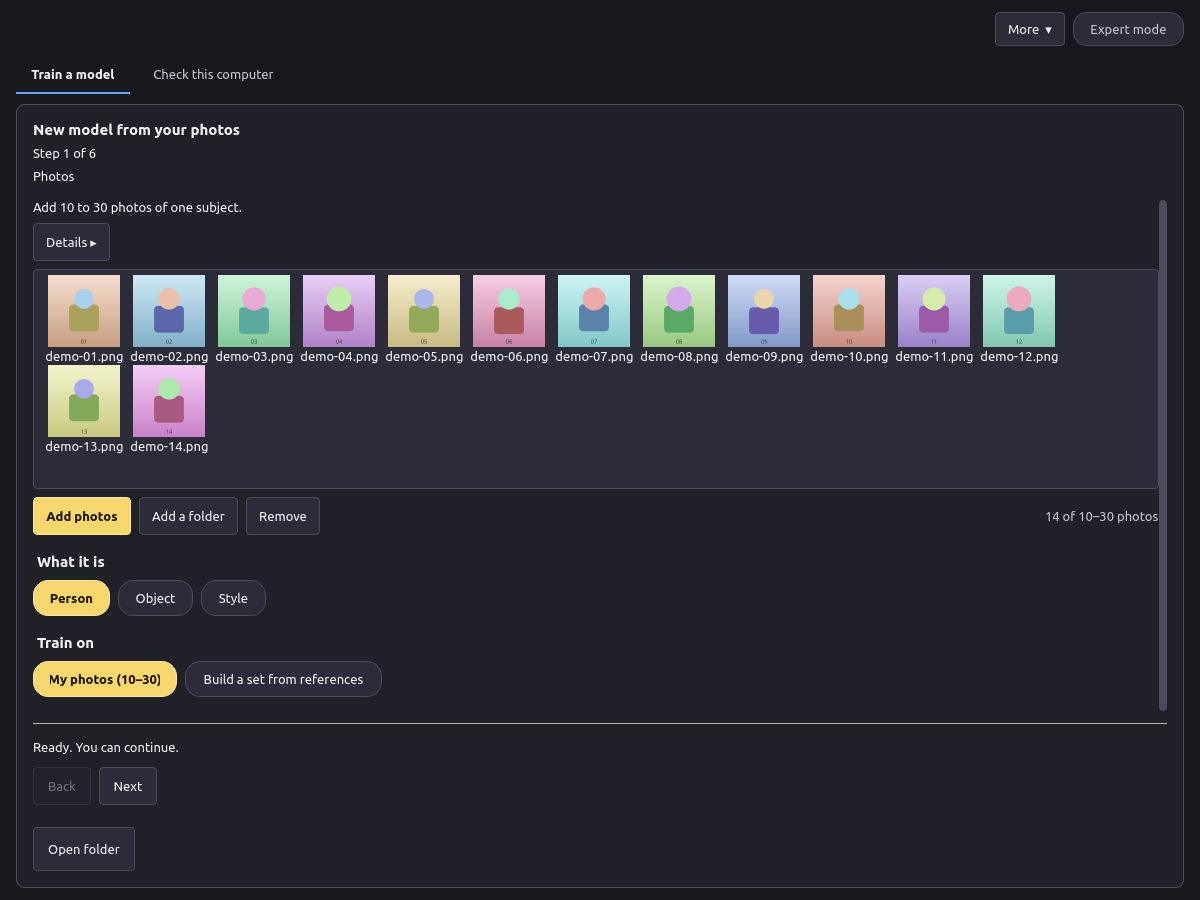
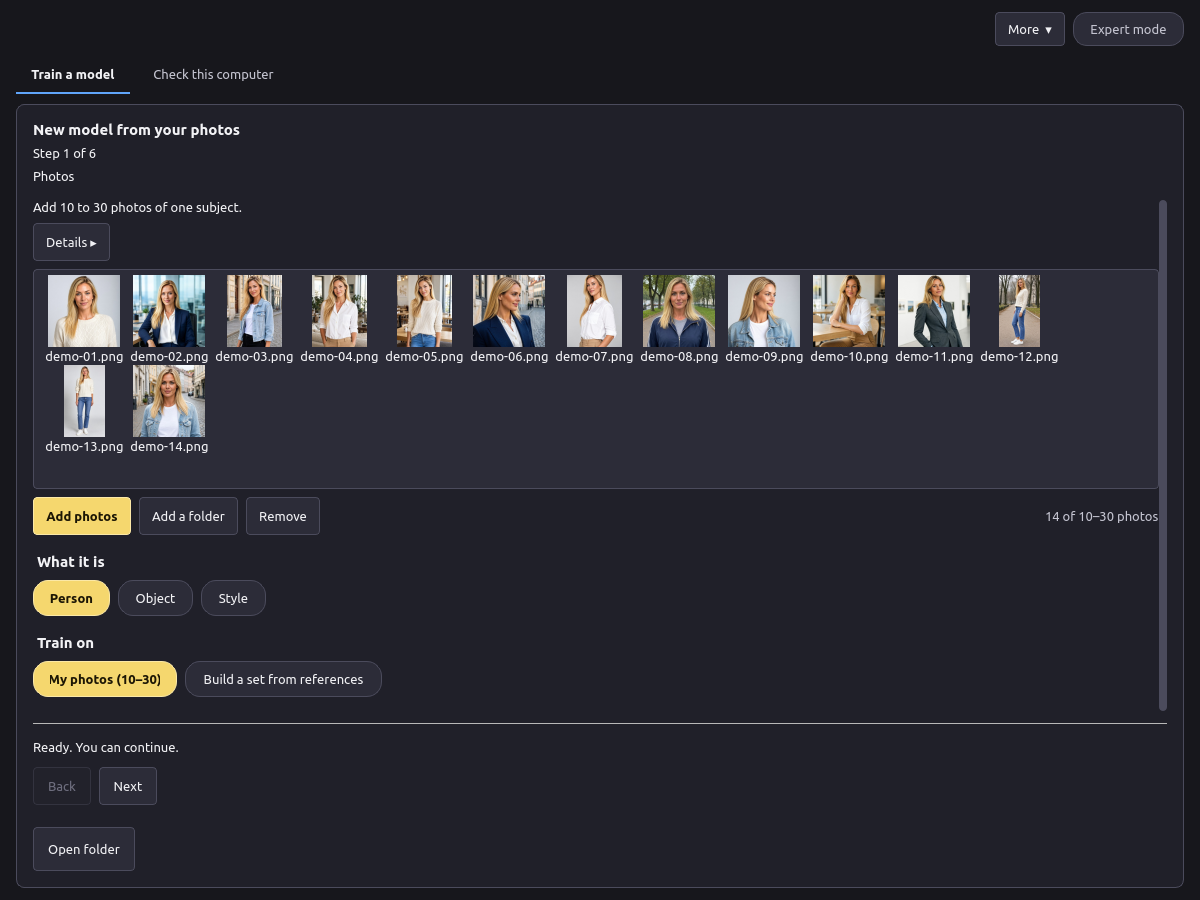
docs: manual screenshots with sample photos

Changed region(s): [[0.0308, 0.28, 0.8942, 0.4978]]

diff --git a/scripts/forge_app_shots.py b/scripts/forge_app_shots.py
@@ -1,7 +1,8 @@
 """Grab each Model Forge step (Simple and Expert, en and ru) with a stub engine.
 
-Usage: QT_QPA_PLATFORM=offscreen python scripts/forge_app_shots.py OUT_DIR [--manual]
-Photos are generated neutral placeholders (no people). Nothing is trained and no GPU is used.
+Usage: QT_QPA_PLATFORM=offscreen python scripts/forge_app_shots.py OUT_DIR [--manual] [--photos DIR]
+Photos are generated neutral placeholders (no people), or the first 14 pictures in ``--photos DIR`` by file name,
+downscaled and saved again without metadata. Nothing is trained and no GPU is used.
 ``--manual`` writes only the pictures the user manual uses (docs/manual/img/) plus the model downloader.
 """
 
@@ -69,14 +70,44 @@ def placeholder_photos(folder: Path, count: int) -> list[Path]:
     return paths
 
 
-def demo_prepared(project: Path, photos: list[Path], drops: list[tuple[Path, str]]) -> None:
+def sample_photos(source: Path, folder: Path, count: int, side: int = 512) -> list[Path]:
+    """The first ``count`` pictures in ``source``, at most ``side`` px on the long edge, saved as PNG, no metadata."""
+    from PySide6 import QtCore, QtGui
+
+    folder.mkdir(parents=True, exist_ok=True)
+    files = sorted(p for p in source.iterdir() if p.suffix.lower() in {".jpg", ".jpeg", ".png", ".webp"})[:count]
+    if len(files) < count:
+        raise SystemExit(f"--photos needs at least {count} pictures, found {len(files)} in {source}")
+    paths = []
+    for index, file in enumerate(files):
+        image = QtGui.QImage(str(file))
+        if image.isNull():
+            raise SystemExit(f"cannot read {file}")
+        image = image.scaled(side, side, QtCore.Qt.AspectRatioMode.KeepAspectRatio,
+                             QtCore.Qt.TransformationMode.SmoothTransformation)
+        clean = QtGui.QImage(image.size(), QtGui.QImage.Format.Format_RGB32)
+        painter = QtGui.QPainter(clean)
+        painter.drawImage(0, 0, image)
+        painter.end()
+        path = folder / f"demo-{index + 1:02d}.png"
+        clean.save(str(path))
+        paths.append(path)
+    return paths
+
+
+def demo_prepared(project: Path, photos: list[Path], drops: list[tuple[Path, str]], samples: bool = False) -> None:
     """Like the test stub's ``write_prepared``, with descriptions that read naturally in the manual."""
     import json
 
     project.mkdir(parents=True, exist_ok=True)
-    rows = [{"id": f"p{i}", "file": str(photo), "long": f"mira_demo, placeholder picture {i + 1:02d}, a circle above "
-             "a rounded square on a soft background", "short": f"mira_demo, placeholder picture {i + 1:02d}",
-             "round": 0} for i, photo in enumerate(photos)]
+    if samples:
+        texts = [(f"mira_demo, sample photo {i + 1:02d}, a woman with long blonde hair",
+                  f"mira_demo, sample photo {i + 1:02d}") for i in range(len(photos))]
+    else:
+        texts = [(f"mira_demo, placeholder picture {i + 1:02d}, a circle above a rounded square on a soft background",
+                  f"mira_demo, placeholder picture {i + 1:02d}") for i in range(len(photos))]
+    rows = [{"id": f"p{i}", "file": str(photo), "long": texts[i][0], "short": texts[i][1], "round": 0}
+            for i, photo in enumerate(photos)]
     (project / "captions.jsonl").write_text("".join(json.dumps(row) + "\n" for row in rows), encoding="utf-8")
     lines = [json.dumps({"id": f"d{i}", "name": path.name, "reason": reason}) for i, (path, reason) in enumerate(drops)]
     (project / "drops.jsonl").write_text("".join(line + "\n" for line in lines), encoding="utf-8")
@@ -98,7 +129,7 @@ def shot_downloader(out: Path, lang: str) -> None:
     grab_view(view_for(snapshot, mode="queue", focus_app="model-forge", lang=lang), out / f"{lang}-mdl-download.png")
 
 
-def main(out: Path, manual: bool = False) -> None:
+def main(out: Path, manual: bool = False, samples: Path | None = None) -> None:
     home = Path(tempfile.mkdtemp(prefix="forge-shots-"))
     os.environ["VOXPRINT_HOME"] = str(home)
     from PySide6 import QtWidgets
@@ -111,7 +142,12 @@ def main(out: Path, manual: bool = False) -> None:
     from voxprint_forge.app.window import ForgeApp
 
     out.mkdir(parents=True, exist_ok=True)
-    photos = placeholder_photos(home / "photos", 14) if manual else make_photos(home / "photos", 14)
+    if samples is not None:
+        photos = sample_photos(samples, home / "photos", 14)
+    elif manual:
+        photos = placeholder_photos(home / "photos", 14)
+    else:
+        photos = make_photos(home / "photos", 14)
     for lang in ("en", "ru"):
         for expert in (False, True):
             set_language(lang)
@@ -124,8 +160,11 @@ def main(out: Path, manual: bool = False) -> None:
             })
             second = "lora.drop.duplicate" if manual else "lora.drop.safety"
             drops = [(photos[12], "lora.drop.blurry"), (photos[13], second)]
-            write = demo_prepared if manual else write_prepared
-            runner.effects["prepare"] = lambda project, write=write: write(project, photos[:12], drops)
+            if manual or samples is not None:
+                with_samples = samples is not None
+                runner.effects["prepare"] = lambda project: demo_prepared(project, photos[:12], drops, with_samples)
+            else:
+                runner.effects["prepare"] = lambda project: write_prepared(project, photos[:12], drops)
             forge = ForgeApp(runner=runner, home=home / f"state-{lang}-{expert}", commands=ALL_COMMANDS,
                              open_path=lambda _p: None, launch=lambda _a: None)
             forge.expert.set_enabled(expert)
@@ -223,4 +262,6 @@ def shot_open_base(forge, app, path: Path) -> None:
 
 
 if __name__ == "__main__":
-    main(Path(sys.argv[1]), manual="--manual" in sys.argv[2:])
+    flags = sys.argv[2:]
+    given = Path(flags[flags.index("--photos") + 1]) if "--photos" in flags else None
+    main(Path(sys.argv[1]), manual="--manual" in flags, samples=given)
